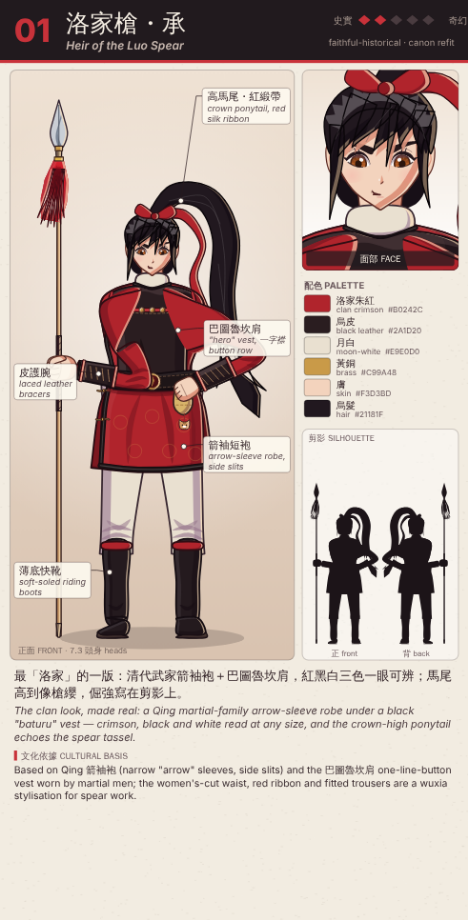
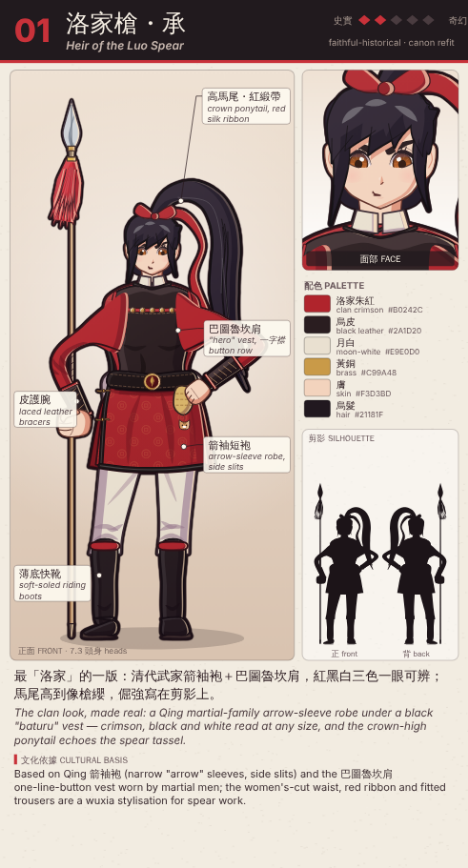
Design v2: 洛紅纓 — 10-option sheet, single cards, design doc
Claude-Session: https://claude.ai/code/session_0189q81JiBpJJ14MNdLoaRZy

diff --git a/shorelight/docs/design/v2/hongying.md b/shorelight/docs/design/v2/hongying.md
@@ -1,0 +1,159 @@
+# 洛紅纓 Luo Hongying: Character Design Pass v2
+
+Party member, 19, 金 Metal, 紅纓槍 red-tasselled spear. Heir of the 鹿港 Luo clan (trading house and martial family), whose house was destroyed three years ago on 中元 night. Fiery, proud, blunt, secretly loves cute things, and a disaster in the kitchen.
+
+- Sheet: `docs/design/v2/hongying_sheet.png`. Single cards: `docs/design/v2/hongying/opt01.png` … `opt10.png`
+- Source: `tools/design2/hongying*.js` (shared with 洛青鋒). Render: `node tools/design2/hongying_qingfeng_render.js hongying`
+
+| # | Name | Direction |
+|---|---|---|
+| 01 | 洛家槍・承 *Heir of the Luo Spear* | faithful-historical · canon refit |
+| 02 | 鹿港千金 *Daughter of the Lukang Trading House* | historical · merchant silk, road-worn |
+| 03 | 鏢局行腳 *Escort on the Coast Road* | historical · working traveller |
+| 04 | 縞素誓 *The Mourning Vow* | historical-leaning · grief as armour |
+| 05 | 刀馬旦 *The Opera Warrior-Maiden* | bold fantasy · stage armour persona |
+| 06 | 中元燈夜 *Ghost-Month Lantern Hunter* | fantasy · hooded night hunter |
+| 07 | 綿甲・金 *Studded Armour of Metal* | grounded fantasy · Qing brigandine |
+| 08 | 海口躲藏 *Harbour Disguise* | historical · fishing-port everyday wear |
+| 09 | 嘴硬心軟 *All Bark, Soft Heart* | stylised 6-head · tsundere, cute-lover |
+| 10 | 洛家家主 *Head of House Luo* | epilogue · matured, rebuilt clan |
+
+## 01 洛家槍・承: Heir of the Luo Spear
+
+**Direction:** faithful-historical · canon refit
+
+**Idea:** 最「洛家」的一版：清代武家箭袖袍＋巴圖魯坎肩，紅黑白三色一眼可辨；馬尾高到像槍纓，倔強寫在剪影上。
+
+The clan look, made real: a Qing martial-family arrow-sleeve robe under a black "baturu" vest — crimson, black and white read at any size, and the crown-high ponytail echoes the spear tassel.
+
+**Palette:** 洛家朱紅 clan crimson `#b0242c` · 烏皮 black leather `#2a1d20` · 月白 moon-white `#e9e0d0` · 黃銅 brass `#c99a48` · 膚 skin `#f3d3bd` · 烏髮 hair `#21181f`
+
+**Costume:** 高馬尾・紅緞帶 (crown ponytail, red silk ribbon); 巴圖魯坎肩 ("hero" vest, 一字襟 button row); 皮護腕 (laced leather bracers); 箭袖短袍 (arrow-sleeve robe, side slits); 薄底快靴 (soft-soled riding boots)
+
+**Cultural basis:** Based on Qing 箭袖袍 (narrow "arrow" sleeves, side slits) and the 巴圖魯坎肩 one-line-button vest worn by martial men; the women's-cut waist, red ribbon and fitted trousers are a wuxia stylisation for spear work.
+
+## 02 鹿港千金: Daughter of the Lukang Trading House
+
+**Direction:** historical · merchant silk, road-worn
+
+**Idea:** 「一府二鹿三艋舺」的大小姐：最好的絲綢、最講究的鑲滾，可是衣襬沾了三年的路塵——驕傲還在，靠山沒了。
+
+The pampered heir of a great Lukang trading house: the finest silk and fussiest triple trims, but three years of road dust on the hem — the pride survives, the family behind it does not.
+
+**Palette:** 胭脂紫紅 rouge plum silk `#8e2c48` · 玄緞 black satin trim `#1f1a1e` · 石青 stone-teal lining `#2e6a68` · 金線 gold thread `#d6ae58` · 象牙白 ivory `#efe6d6` · 膚 skin `#f6dcca`
+
+**Costume:** 抹額 (velvet forehead band, jade bead); 步搖金簪 (swinging gold hairpins); 鑲滾大襟襖 (side-fastened jacket, triple trim); 寬袖反袖口 (wide sleeves, contrast cuffs); 繡花褲腳 (embroidered trouser hems)
+
+**Cultural basis:** Draws on late-Qing Han women's 大襟襖 with wide 鑲滾 (multi-band) trims, embroidered trouser hems and the 抹額 forehead band seen in Lukang/Tainan wedding and festival portraits; unbound feet and the spear are the fantasy departure.
+
+## 03 鏢局行腳: Escort on the Coast Road
+
+**Direction:** historical · working traveller
+
+**Idea:** 離家三年、跟著鏢車走遍西部海線的她：斗笠、綁腿、草鞋，槍桿上掛著全部家當——最接地氣的一版，笑起來露出小虎牙。
+
+Three years riding with escort caravans down the west-coast road: rain hat, leg wraps, straw sandals, her whole life tied to the spear — the most down-to-earth take, with a crooked fang-tooth grin.
+
+**Palette:** 褪茜紅 faded madder `#b55a3c` · 藍布 indigo cotton `#34405e` · 胚布 undyed cotton `#e6d8bd` · 竹篾 split bamboo `#d6b46e` · 牛皮 tan leather `#6b4630` · 曬膚 sun-tanned skin `#e2b48e`
+
+**Costume:** 斗笠 (bamboo rain hat); 包袱 (travel bundle tied to the spear); 對襟短衫 (centre-buttoned jacket, rolled sleeves); 綁腿 (cotton leg wraps); 草鞋 (straw sandals)
+
+**Cultural basis:** Built from 19th-c. Taiwanese labouring dress — 斗笠 bamboo hat, 對襟 cotton jacket, wide 大褲 with 綁腿 wraps and 草鞋 — plus the 鏢局 escort-agency tradition of wuxia; the women's braid and the spear-as-carrying-pole are stylised.
+
+## 04 縞素誓: The Mourning Vow
+
+**Direction:** historical-leaning · grief as armour
+
+**Idea:** 三年孝期未滿，她不肯脫下麻衣：全身只剩槍纓一點紅。最冷、最安靜、最危險的一版——驕傲被悲傷磨成刀刃。
+
+Her three years of mourning are not over and she will not take the hemp off: the spear tassel is the only colour left on her. The quietest, coldest, most dangerous take — pride ground down into an edge.
+
+**Palette:** 生麻 unbleached hemp `#e4dccb` · 麻繩 hemp rope `#b9a27a` · 孝巾白 mourning white `#f4f1ea` · 鐵灰 iron grey `#3a3438` · 槍纓紅 tassel red (only colour) `#c41e2a` · 膚 pale skin `#f0dccd`
+
+**Costume:** 孝巾 (mourning headcloth, long tails); 斷髮 (hair cut with her own blade); 不緝邊麻衫 (raw-edged hemp jacket); 麻絰腰繩 (hemp-rope mourning belt); 白布鞋 (white-covered shoes)
+
+**Cultural basis:** Based on Han 披麻戴孝 mourning dress — unbleached hemp with deliberately unhemmed edges, the 麻絰 rope belt, white 孝巾 headcloth and white-covered shoes; wearing it into battle as a vow is the fantasy departure.
+
+## 05 刀馬旦: The Opera Warrior-Maiden
+
+**Direction:** bold fantasy · stage armour persona
+
+**Idea:** 她說：「洛家的女兒，就要像戲台上的穆桂英。」把歌仔戲刀馬旦的「靠」改成能打的戰甲——雉翎與靠旗讓剪影在全場最搶眼。
+
+"A daughter of the Luo should take the field like Mu Guiying on the stage." Taiwanese-opera martial heroine armour rebuilt to really fight in — plumes and back flags make the loudest silhouette in the cast.
+
+**Palette:** 大紅 stage crimson `#c0182c` · 金片 gold sequin `#e0b040` · 點翠藍 kingfisher blue `#1f6fa0` · 翠綠 jade green `#3a9a7a` · 粉白 powder white `#f6f0e6` · 雉翎 pheasant plume `#c8a070`
+
+**Costume:** 雉雞翎 (twin pheasant-tail plumes); 靠旗 (back flags of the stage general); 雲肩 (four-lobed cloud collar); 靠肚 (embroidered belly panel); 甲裙流蘇 (armour skirt with tassels)
+
+**Cultural basis:** Inspired by 歌仔戲 / 京劇 刀馬旦 costume — the 女靠 stage armour with 靠旗 flags, 雲肩 cloud collar, 靠肚 belly panel and 雉雞翎 plumes on a 七星額子 crown; real stage armour is decorative, so its fighting construction is pure fantasy.
+
+## 06 中元燈夜: Ghost-Month Lantern Hunter
+
+**Direction:** fantasy · hooded night hunter
+
+**Idea:** 每到七月她就出門獵鬼：斗篷兜帽、槍尖挑著一盞引魂燈，在中元夜裡找那個戴鬼面的人。暗色剪影＋一點燈火，是最有「仙劍」夜戰味的一版。
+
+Every seventh month she goes hunting ghosts — hooded cloak, a soul-lantern hung from the spear-head, searching the Ghost-Month night for the masked man. A dark silhouette with one point of lantern light: the most "night-battle xianxia" take.
+
+**Palette:** 夜藍 night indigo `#232a44` · 墨黑 ink black `#15121a` · 暗紅裡 blood-red lining `#9a1e2a` · 燈紙 lantern paper `#f0d9a0` · 符黃 talisman yellow `#e8c040` · 靈視眼 spirit-sight eyes `#e05a20`
+
+**Costume:** 風帽斗篷 (hooded Qing cloak); 引魂燈 (paper soul-lantern on the spear); 鎮煞符 (talisman strips); 散髮 (loose hair spilling from the hood); 纏符快靴 (charm-bound boots)
+
+**Cultural basis:** The cloak follows the Qing women's hooded 斗篷 (風帽) worn in winter; the paper lantern and yellow 符 talismans draw on 中元普渡 and Taoist exorcism practice. Glowing spirit-sight eyes and talisman-bound gear are fantasy.
+
+## 07 綿甲・金: Studded Armour of Metal
+
+**Direction:** grounded fantasy · Qing brigandine
+
+**Idea:** 屬「金」的戰姬：清代綿甲的銅釘、護心鏡與護肩——以盾形與方塊堆疊出最「重」的剪影，擺出洛家槍起手式，像一面移動的城牆。
+
+The Metal-element war-maiden: brass-studded Qing padded armour, heart-mirror and shoulder guards — stacked shield and block shapes give the heaviest silhouette, braced in the Luo-spear opening guard like a walking rampart.
+
+**Palette:** 甲面朱 armour-face crimson `#a32430` · 鋼 steel `#8d97a3` · 鐵 dark iron `#3e444e` · 銅釘 brass studs `#d2a548` · 白襯 white lining `#efeae0` · 膚 skin `#ecc6a8`
+
+**Costume:** 束髮冠 (steel hair-crown, top-knot); 護心鏡 (round steel heart-mirror); 護肩 (layered shoulder guards); 綿甲甲裙 (studded padded-armour skirt); 鐵護脛 (steel greaves)
+
+**Cultural basis:** Based on the Qing 綿甲 (cloth-faced padded armour studded with brass rivets) with 護心鏡 and 護肩 as worn by Qing banner troops; fitting it to a 19-year-old woman, the steel crown and the slimmer cut are the fantasy departure.
+
+## 08 海口躲藏: Harbour Disguise
+
+**Direction:** historical · fishing-port everyday wear
+
+**Idea:** 躲追兵時混進海口漁村的她：花頭巾、藍衫、圍裙、柴屐，長槍裹布假裝成釣竿——手上那條魚，是她「親手烤」的。最生活、最好笑、最暖的一版。
+
+Hiding in a fishing village from her pursuers: floral kerchief, indigo jacket, apron and wooden clogs, the spear wrapped up as a fishing pole — and the fish in her hand is one she "cooked" herself. The warmest, funniest everyday take.
+
+**Palette:** 藍衫 indigo jacket `#2c4a72` · 花頭巾 floral kerchief `#e07a8a` · 烏布裙 black apron `#3a3436` · 白褲 washed white `#f2ece0` · 柴屐 wooden clogs `#b98a56` · 曬膚 sun-kissed skin `#efc6a6`
+
+**Costume:** 花頭巾 (floral kerchief over a low bun); 烤焦的魚 (her cooking (a recurring disaster)); 烏布圍裙 (black cotton apron); 捲褲管 (rolled wide trousers); 柴屐 (wooden clogs); 裹布藏槍 (spear wrapped as a fishing pole)
+
+**Cultural basis:** Based on Hoklo coastal women's everyday dress — indigo 大襟衫, black cotton apron, wide rolled trousers, 柴屐 wooden clogs and a printed 頭巾 kerchief against the sun; the disguised spear and the comic charcoal fish are story inventions.
+
+## 09 嘴硬心軟: All Bark, Soft Heart
+
+**Direction:** stylised 6-head · tsundere, cute-lover
+
+**Idea:** 把「偷偷喜歡可愛東西」穿在身上卻死不承認：雙丫髻上夾著石虎耳朵、槍上掛著石虎吊飾，嘴巴卻在說「才、才不是因為可愛！」6 頭身 Q 感，最適合宣傳與表情包。
+
+Her secret love of cute things, worn openly while she flatly denies it: leopard-cat ear clips on twin buns and a leopard-cat plush on the spear — "I-it's NOT because it's cute!" A 6-head stylised take for key art and sticker sets.
+
+**Palette:** 石榴紅 pomegranate red `#d02a3a` · 奶白 cream `#f6ead6` · 桃粉 peach pink `#f4a6b4` · 烏 ink `#2a1c22` · 金 gold `#e8b84a` · 石榴眼 garnet eyes `#b02a3a`
+
+**Costume:** 雙丫髻・石虎耳夾 (twin buns, leopard-cat ear clips); 石虎吊飾 (leopard-cat plush (do not mention it)); 雲頭短褂 (cropped jacket, cloud-head corners); 燈籠褲 (gathered "lantern" trousers); 雲頭鞋 (cloud-toe shoes)
+
+**Cultural basis:** Draws on Qing girls' 雙丫髻 twin buns, the short 褂 with 如意 cloud-head corners, gathered trousers and 雲頭鞋 cloud-toe shoes; the leopard-cat motifs reference Taiwan's 石虎 (and her companion 糰子). Proportions and accessories are stylised.
+
+## 10 洛家家主: Head of House Luo
+
+**Direction:** epilogue · matured, rebuilt clan
+
+**Idea:** 結局後重建鹿港洛家的她：高髻、對襟長褂、腰間掛著哥哥碎裂的半張鬼面。最成熟、最沉穩的一版——驕傲終於長成了擔當。
+
+After the ending, rebuilding House Luo in Lukang: high chignon, floor-length open coat, and half of her brother's shattered ghost mask at her hip. The most mature, composed take — pride finally grown into responsibility.
+
+**Palette:** 玄色雲錦 black cloud brocade `#1d1a1f` · 洛家朱 clan crimson `#a8202c` · 銀白 silver-white `#e8e6e2` · 舊金 old gold `#b8975a` · 槍頭銀 spear silver `#7a8696` · 膚 skin `#efcfba`
+
+**Costume:** 槍形銀簪・高髻 (high chignon, spear-shaped pin); 對襟長褂 (floor-length open coat, crimson lining); 兄長的半張鬼面 (half of her brother's ghost mask); 洛家槍徽 (clan crest buckle); 粉底靴 (white-soled formal boots)
+
+**Cultural basis:** Based on late-Qing formal wear for wealthy Taiwanese households — 對襟長褂 over a 大襟 robe, 粉底靴 white-soled boots and a high 髻 with a single pin; a woman as clan head and the spear-shaped hairpin are the story's departure.
